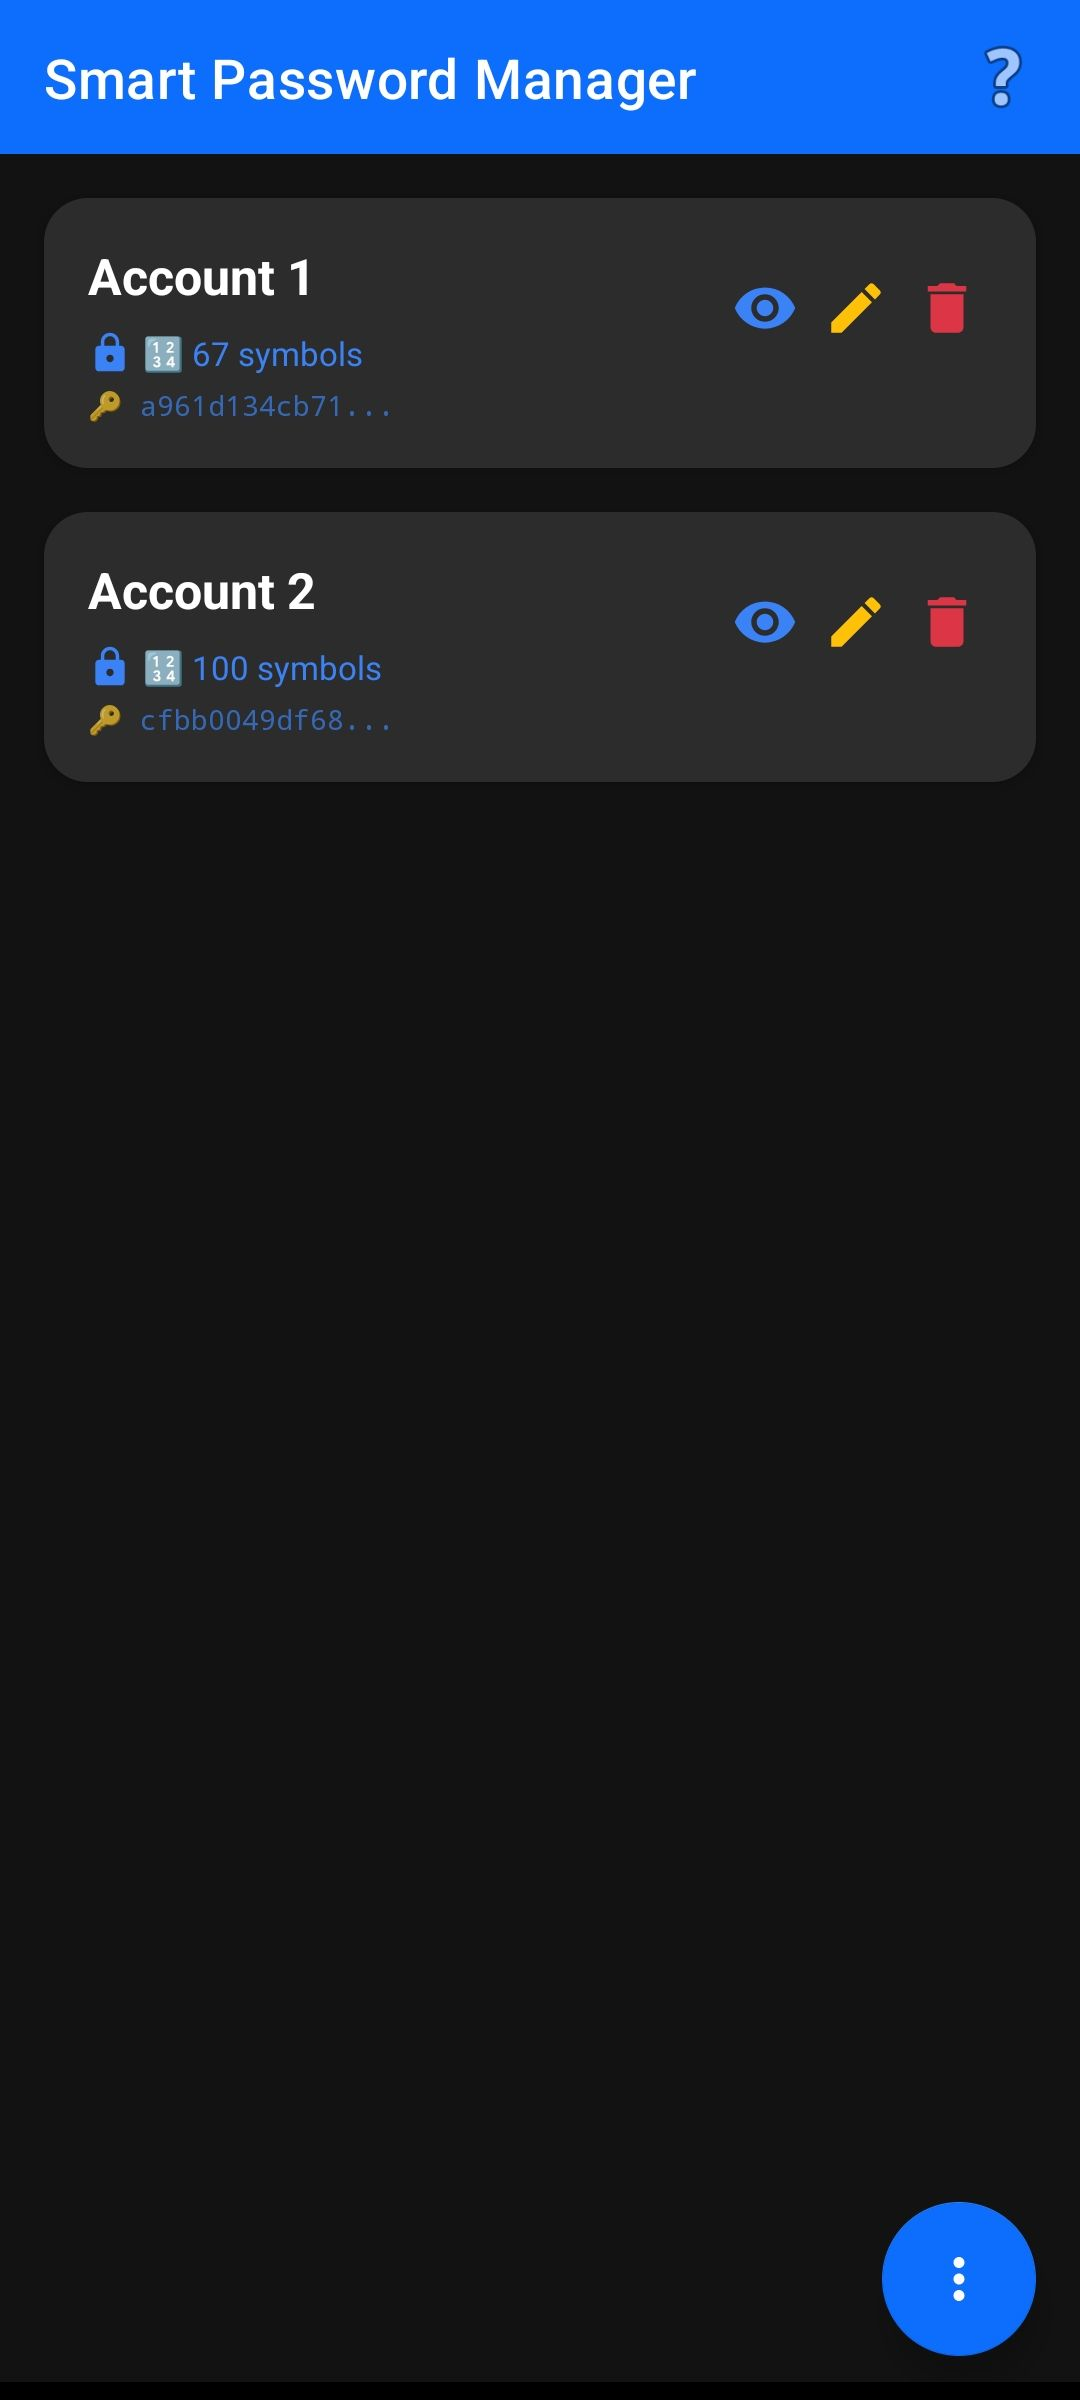
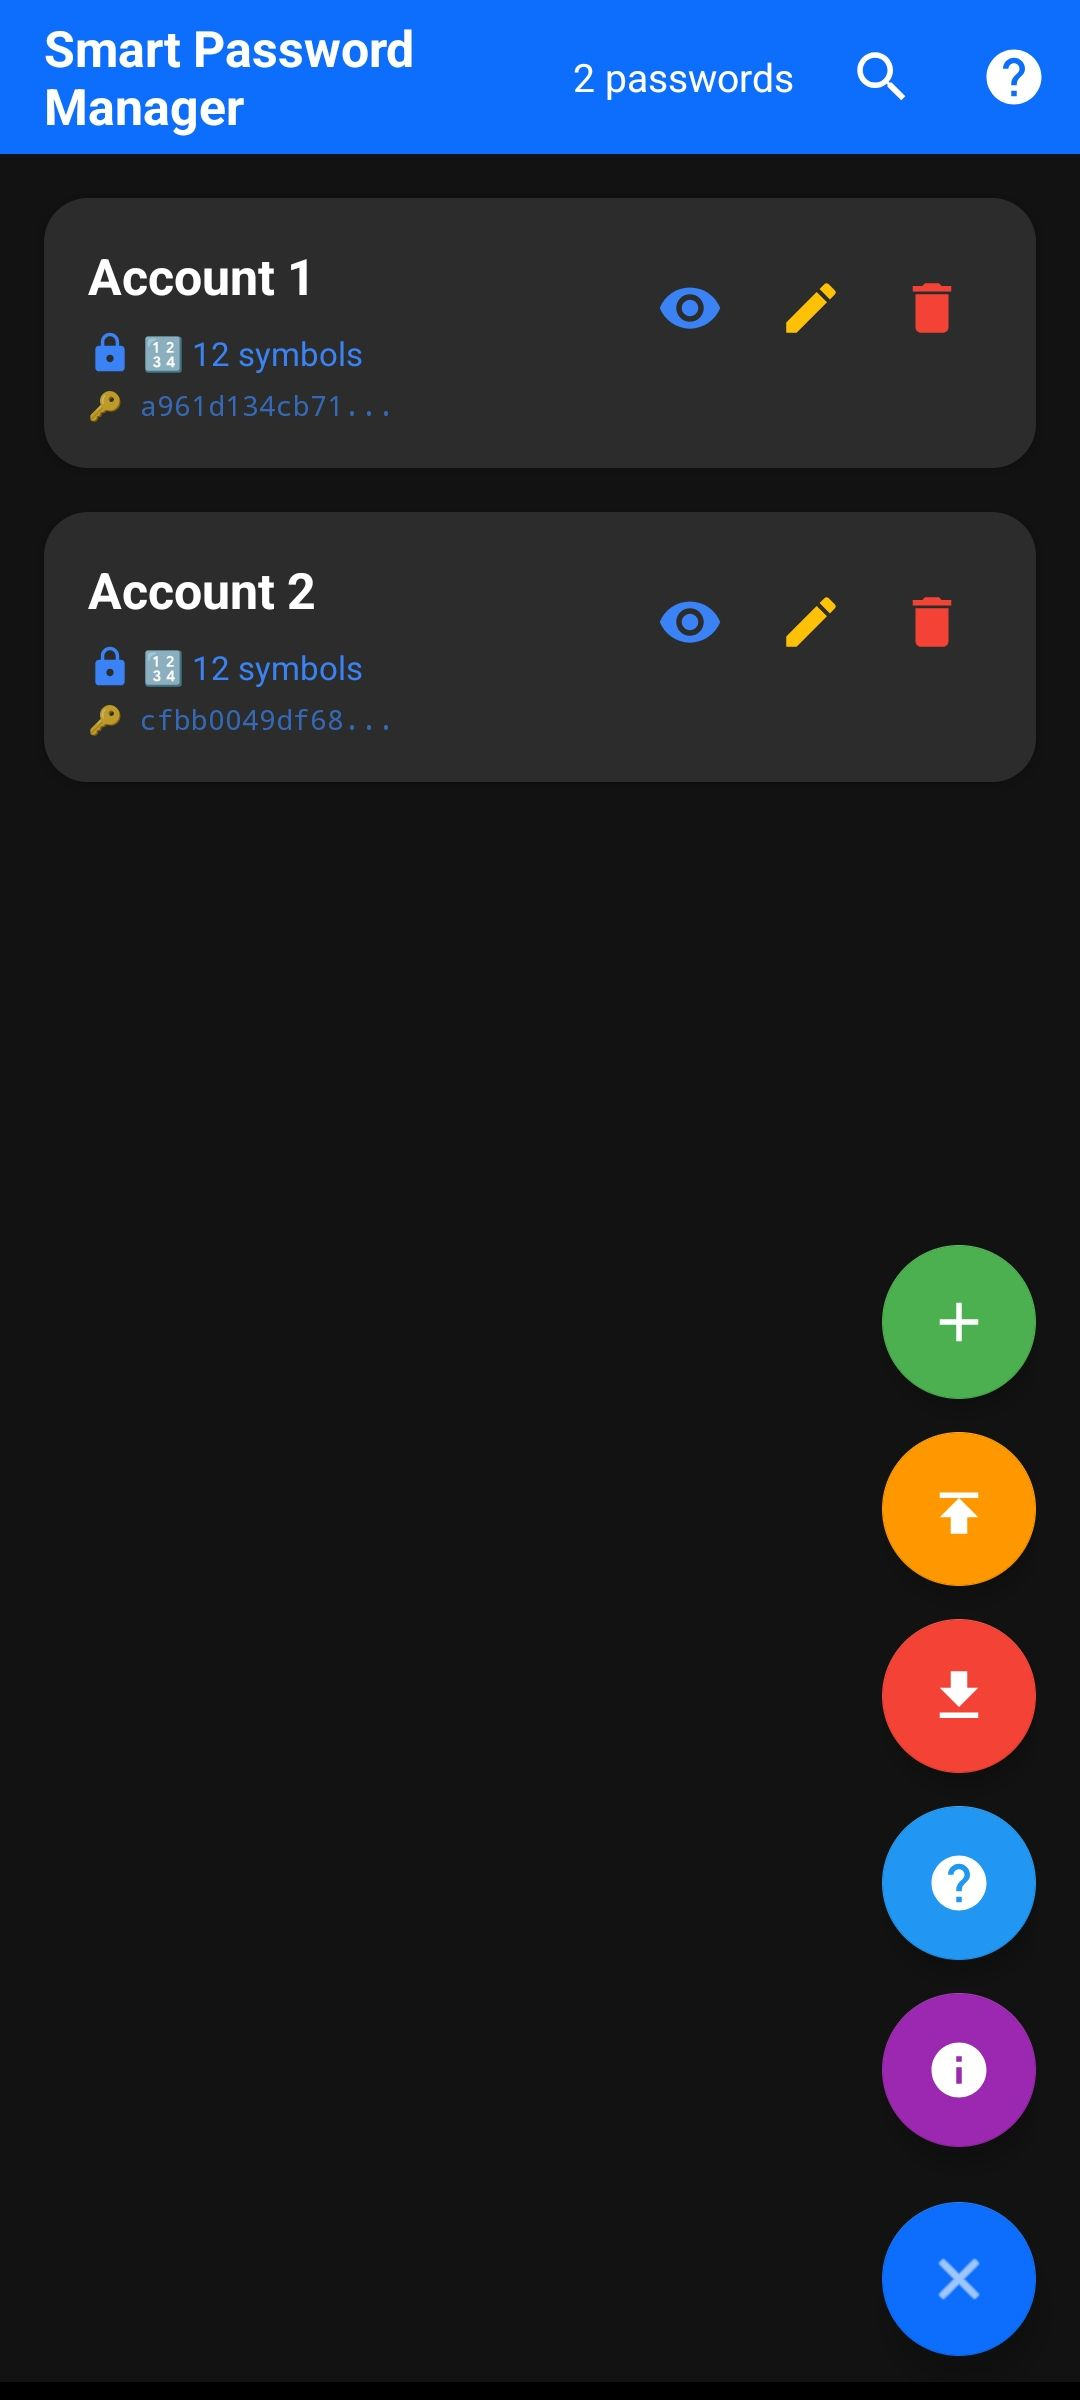
Smart Password Manager (Android) v1.1.0

diff --git a/app/src/main/java/com/example/smart_password_manager_android/StorageManager.kt b/app/src/main/java/com/example/smart_password_manager_android/StorageManager.kt
@@ -262,9 +262,9 @@ class StorageManager(private val context: Context) {
     private fun getAppVersion(): String {
         return try {
             val packageInfo = context.packageManager.getPackageInfo(context.packageName, 0)
-            packageInfo.versionName ?: "1.0.1"
+            packageInfo.versionName ?: "1.1.0"
         } catch (_: Exception) {
-            "1.0.1"
+            "1.1.0"
         }
     }
 }

diff --git a/README.md b/README.md
@@ -1,4 +1,4 @@
-# Smart Password Manager Android <sup>v1.0.1</sup>
+# Smart Password Manager Android <sup>v1.1.0</sup>
 
 ---
 
@@ -41,6 +41,8 @@
 - **Cross-Platform Compatible**: Same passwords as all other SmartPassLib implementations
 - **Public Key Verification**: Verify secret knowledge without exposing the secret
 - **Material Design UI**: Clean, intuitive interface with dark theme support
+- **🔍 Instant Search**: Quickly find passwords by description as you type
+- **↕ Drag & Drop Reordering**: Customize password order with long press and drag
 - **Secure Secret Entry**: Hidden input with show/hide toggle
 - **One-Tap Copy**: Copy generated passwords to clipboard instantly
 - **Export/Import**: Backup and restore your password metadata
@@ -51,9 +53,9 @@
 
 ## Screenshots
 
-| Main Screen                                                                                                             | Add Password                                                                                                              | Onboarding Guide                                                                                                      |
-|-------------------------------------------------------------------------------------------------------------------------|---------------------------------------------------------------------------------------------------------------------------|-----------------------------------------------------------------------------------------------------------------------|
-| ![Main Screen](https://github.com/smartlegionlab/smart-password-manager-android/raw/master/data/images/main_screen.png) | ![Add Password](https://github.com/smartlegionlab/smart-password-manager-android/raw/master/data/images/add_password.png) | ![Onboarding](https://github.com/smartlegionlab/smart-password-manager-android/raw/master/data/images/onboarding.png) |
+| Main Screen                                                                                                             | Splash Screen                                                                                                        | Onboarding Guide                                                                                                      |
+|-------------------------------------------------------------------------------------------------------------------------|----------------------------------------------------------------------------------------------------------------------|-----------------------------------------------------------------------------------------------------------------------|
+| ![Main Screen](https://github.com/smartlegionlab/smart-password-manager-android/raw/master/data/images/main_screen.png) | ![Splash Screen](https://github.com/smartlegionlab/smart-password-manager-android/raw/master/data/images/splash.png) | ![Onboarding](https://github.com/smartlegionlab/smart-password-manager-android/raw/master/data/images/onboarding.png) |
 
 ---
 
@@ -81,7 +83,7 @@
 1. Tap the **menu button** (three dots ⋮) in the toolbar
 2. Tap the **green (+) button** to add a new entry
 3. Enter a **description** (e.g., "Gmail Account")
-4. Set **password length** (12-1000 characters, default 16)
+4. Set **password length** (12-100 characters, default 12)
 5. Enter your **secret phrase** (minimum 12 characters)
 6. Tap **Save** — only the public key is stored!
 
@@ -91,6 +93,26 @@
 2. Enter your **secret phrase** (minimum 12 characters)
 3. Your smart password is **generated instantly**
 4. Tap **Copy** to copy to clipboard
+
+### 🔍 Search Feature
+
+1. Tap the **search icon** (🔍) in the toolbar
+2. **Start typing** — results appear instantly as you type
+3. Search matches are **case-insensitive** and search through descriptions
+4. Tap the **close (✕) button** to clear search and return to full list
+5. Search preserves your custom order — results maintain their relative positions
+
+### ↕ Drag & Drop Reordering
+
+1. **Long press** (0.5 seconds) on any password card
+2. The card will **highlight with a blue border** + **vibration** feedback
+3. **Drag the card up or down** to reorder
+4. Other cards will **automatically move out of the way**
+5. **Release your finger** — the new order is saved permanently
+6. The order persists after app restart and device reboot
+7. Works even while searching — reorder your filtered results!
+
+**Order Storage:** Your custom order is saved in a separate `order.json` file, keeping `passwords.json` compatible with other platforms.
 
 ### Editing & Deleting
 
@@ -193,7 +215,7 @@ Powered by **[smartpasslib-kotlin](https://github.com/smartlegionlab/smartpassli
 | Public Key Iterations  | 60                                 |
 | Password Generation    | Deterministic from private key     |
 | Min Secret Length      | 12 characters                      |
-| Password Length Range  | 12-1000 characters                 |
+| Password Length Range  | 12-100 characters                  |
 
 ---
 
@@ -254,8 +276,15 @@ This Android application is part of a comprehensive suite:
 ### Toolbar Buttons
 | Button        | Action                                      |
 |---------------|---------------------------------------------|
+| 🔍 Search     | Open search bar to filter passwords         |
 | ⋮ (Menu)      | Open menu with Add, Export, Import, Help, About |
 | ← (Back)      | Navigate back (when applicable)             |
+
+### Search Bar
+| Button        | Action                                      |
+|---------------|---------------------------------------------|
+| ✕ (Close)     | Clear search and return to full list        |
+| Typing        | Instant filtering by description            |
 
 ### Menu Options
 | Option        | Action                                      |
@@ -267,11 +296,18 @@ This Android application is part of a comprehensive suite:
 | About         | Show app info and ecosystem links           |
 
 ### Entry Card Buttons
-| Button | Action                                                 |
-|--------|--------------------------------------------------------|
-| 👁 Eye  | Generate and display smart password (requires secret)  |
-| ✏ Edit | Change description or length (secret cannot change)    |
-| 🗑 Delete| Remove entry permanently                              |
+| Button     | Action                                                |
+|------------|-------------------------------------------------------|
+| 👁 Eye    | Generate and display smart password (requires secret) |
+| ✏ Edit    | Change description or length (secret cannot change)   |
+| 🗑 Delete | Remove entry permanently                              |
+
+### Drag & Drop
+| Action                                | Result                                    |
+|---------------------------------------|-------------------------------------------|
+| Long press (0.5 sec) on any card      | Card highlights blue + vibration          |
+| Drag up/down                          | Cards reorder automatically               |
+| Release finger                        | New order saved permanently               |
 
 ---
 
